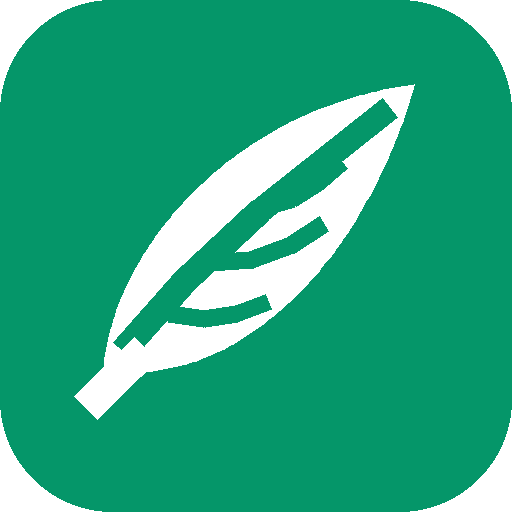
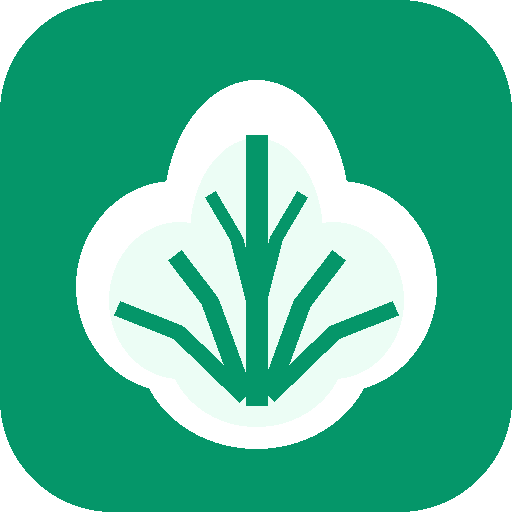
feat: logistica acessa Entregas e icone PWA de alface
Libera perfil LOGISTICA para criar rotas em /comercial/entregas e redesenha favicon/PWA com folha de alface versionada em v=5.

Changed region(s): [[0.125, 0.1562, 0.875, 0.875]]

diff --git a/client/src/lib/accessPolicy.test.ts b/client/src/lib/accessPolicy.test.ts
@@ -49,6 +49,18 @@ describe("accessPolicy", () => {
     expect(canAccessCommercialPath("/custos-producao", "LIDER_COLHEITA")).toBe(false);
   });
 
+  it("limita logistica a entregas e modo entregador", () => {
+    expect(homeForCommercialPerfil("LOGISTICA")).toBe("/comercial/entregador");
+    expect(roleLabel("comercial", "LOGISTICA")).toBe("Logística");
+
+    expect(canAccessCommercialPath("/comercial/entregas", "LOGISTICA")).toBe(true);
+    expect(canAccessCommercialPath("/comercial/entregador", "LOGISTICA")).toBe(true);
+
+    expect(canAccessCommercialPath("/comercial/pedidos", "LOGISTICA")).toBe(false);
+    expect(canAccessCommercialPath("/comercial/dashboard", "LOGISTICA")).toBe(false);
+    expect(canAccessCommercialPath("/comercial/clientes", "LOGISTICA")).toBe(false);
+  });
+
   it("limita comercial/operacoes as paginas comerciais liberadas", () => {
     for (const perfil of ["COMERCIAL", "OPERACOES"] as const) {
       expect(homeForCommercialPerfil(perfil)).toBe("/comercial/dashboard");

diff --git a/client/index.html b/client/index.html
@@ -11,9 +11,9 @@
       name="description"
       content="Supervisão e gestão de produção agrícola — torres, bancadas, ciclos e operação diária."
     />
-    <link rel="icon" href="/favicon.svg?v=4" type="image/svg+xml" />
-    <link rel="manifest" href="/manifest.webmanifest?v=4" />
-    <link rel="apple-touch-icon" href="/apple-touch-icon.png?v=4" />
+    <link rel="icon" href="/favicon.svg?v=5" type="image/svg+xml" />
+    <link rel="manifest" href="/manifest.webmanifest?v=5" />
+    <link rel="apple-touch-icon" href="/apple-touch-icon.png?v=5" />
     <meta name="application-name" content="Fazendas UP" />
     <meta name="apple-mobile-web-app-title" content="Fazendas UP" />
     <meta name="apple-mobile-web-app-capable" content="yes" />

diff --git a/client/src/lib/accessPolicy.ts b/client/src/lib/accessPolicy.ts
@@ -43,7 +43,8 @@ export function homeForCommercialPerfil(perfil: string | null | undefined): stri
 
 export function canAccessCommercialPath(path: string, perfil: string | null | undefined): boolean {
   if (perfil === "LOGISTICA") {
-    return path === "/comercial/entregador" || path.startsWith("/comercial/entregador/");
+    const allowed = ["/comercial/entregas", "/comercial/entregador"];
+    return allowed.some((allowedPath) => path === allowedPath || path.startsWith(`${allowedPath}/`));
   }
   if (isLiderColheitaPerfil(perfil)) {
     return path === "/comercial/acompanhamento-avarias" || path === "/comercial/pedidos";

diff --git a/server/comercial/routers/entregasRouter.ts b/server/comercial/routers/entregasRouter.ts
@@ -4,7 +4,7 @@ import { z } from "zod";
 import { comercialProcedure, comercialRequirePerfis, publicProcedure, router } from "../../_core/trpc";
 import { getComercialPrisma } from "../db";
 
-const podeGerenciarEntregas = comercialRequirePerfis("ADMIN", "GERENTE_COMERCIAL", "COMERCIAL", "OPERACOES");
+const podeGerenciarEntregas = comercialRequirePerfis("ADMIN", "GERENTE_COMERCIAL", "COMERCIAL", "OPERACOES", "LOGISTICA");
 const podeUsarModoEntregador = comercialRequirePerfis(
   "ADMIN",
   "GERENTE_COMERCIAL",

diff --git a/server/_core/trpc.ts b/server/_core/trpc.ts
@@ -346,7 +346,7 @@ const requireComercialModule = t.middleware(async ({ ctx, next, path }) => {
     path !== "comercial.pedidos.me" &&
     !path.startsWith("comercial.entregas")
   ) {
-    throw new TRPCError({ code: "FORBIDDEN", message: "Logística acessa somente o modo entregador." });
+    throw new TRPCError({ code: "FORBIDDEN", message: "Logística acessa somente Entregas e Modo entregador." });
   }
   let comercialEnv;
   try {

diff --git a/client/src/components/Header.tsx b/client/src/components/Header.tsx
@@ -141,7 +141,7 @@ const COMERCIAL_ITEMS: NavItem[] = [
     label: "Entregas",
     icon: Truck,
     requiredRole: "comercial",
-    comercialPerfis: ["OPERACOES", "COMERCIAL", "GERENTE_COMERCIAL", "ADMIN"],
+    comercialPerfis: ["OPERACOES", "COMERCIAL", "GERENTE_COMERCIAL", "LOGISTICA", "ADMIN"],
   },
   {
     href: "/comercial/entregador",
